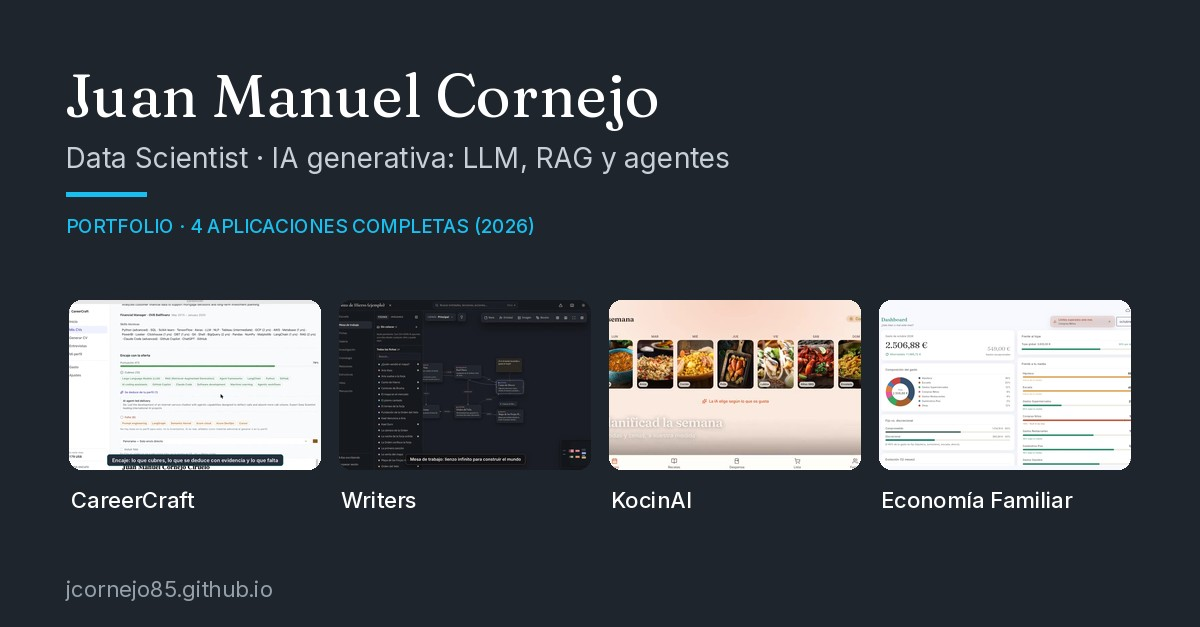
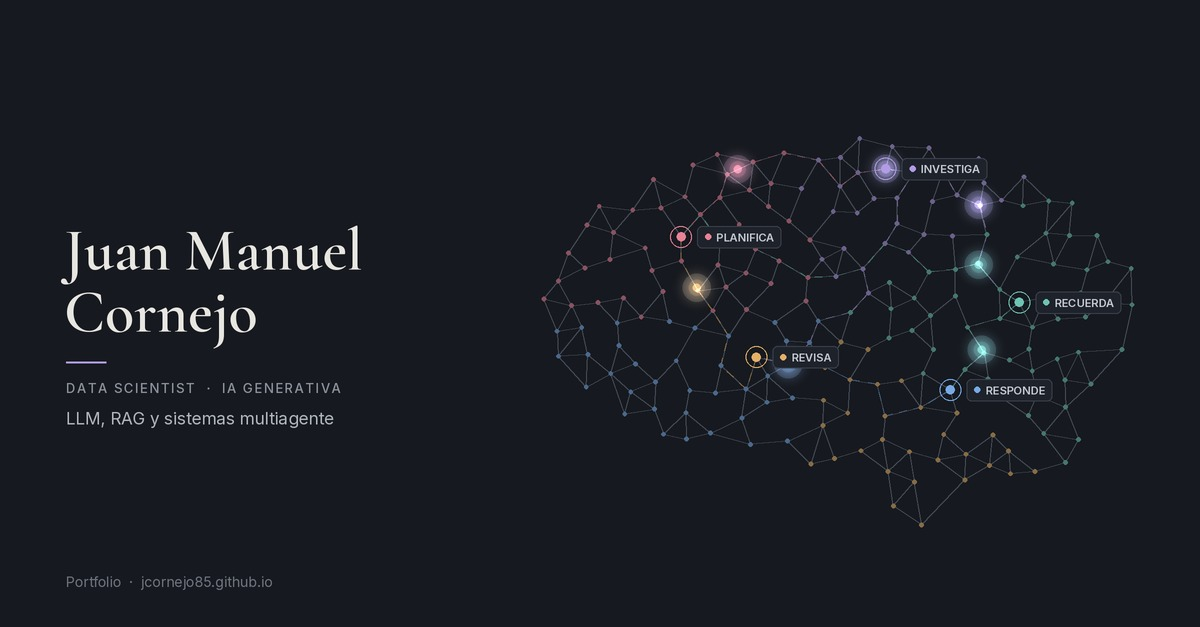
Portada: red de agentes animada y nueva imagen para compartir
- assets/js/neuro-intro.js: canvas con una red en forma de cerebro; cinco agentes se pasan
  mensajes. Respeta prefers-reduced-motion y se pausa fuera de pantalla. Etiquetas ES/EN.
- images/og/portfolio.jpg: versión fija de esa red, estética Writers (LinkedIn la muestra al compartir)

Claude-Session: https://claude.ai/code/session_01QwSUiJUj3XgbcdcxDFEfKt

diff --git a/assets/js/neuro-intro.js b/assets/js/neuro-intro.js
@@ -1,0 +1,147 @@
+/* Portfolio 2026: fondo animado de la portada.
+   Una red de nodos con forma de cerebro en la que cinco agentes se pasan mensajes
+   (pulsos que viajan por las conexiones). Canvas 2D, sin dependencias.
+   - Respeta prefers-reduced-motion (dibuja un fotograma fijo).
+   - Se pausa cuando la portada no está en pantalla o la pestaña está oculta. */
+(function () {
+	var canvas = document.querySelector("#intro .neuro-bg");
+	if (!canvas || !canvas.getContext) return;
+	var ctx = canvas.getContext("2d");
+
+	var BG = "#16191f", LINE = "rgba(110,118,134,0.28)", GRID = "rgba(255,255,255,0.035)";
+	var PAL = ["#e88296", "#b29ce6", "#6ec4b4", "#e4b068", "#78aae6"];
+	var LABELS = {
+		es: ["PLANIFICA", "INVESTIGA", "RECUERDA", "REVISA", "RESPONDE"],
+		en: ["PLANS", "RESEARCHES", "REMEMBERS", "REVIEWS", "ANSWERS"]
+	};
+	var AG = [[-0.55, -0.45], [0.15, -0.70], [0.62, -0.18], [-0.30, 0.25], [0.40, 0.40]];
+	var ROUTES = [[0, 1], [1, 2], [2, 4], [3, 0], [4, 3], [1, 3], [2, 0]];
+	var reduce = window.matchMedia && window.matchMedia("(prefers-reduced-motion: reduce)").matches;
+
+	// generador pseudoaleatorio con semilla: la red es siempre la misma
+	var seed = 7;
+	function rnd() { seed = (seed * 16807) % 2147483647; return (seed - 1) / 2147483646; }
+
+	// forma de cerebro (vista lateral) en coordenadas normalizadas u,v
+	function inside(u, v) {
+		var cereb = u * u + Math.pow((v + 0.08) / 0.82, 2) < 1 && !(u > 0.25 && v > 0.45);
+		var cerebelo = Math.pow((u - 0.48) / 0.34, 2) + Math.pow((v - 0.62) / 0.24, 2) < 1;
+		return cereb || cerebelo;
+	}
+	var nodes = [], tries = 0;
+	while (nodes.length < 200 && tries < 60000) {
+		tries++;
+		var u = rnd() * 2.1 - 1.05, v = rnd() * 2.1 - 1.05;
+		if (!inside(u, v)) continue;
+		var ok = true;
+		for (var i = 0; i < nodes.length; i++) {
+			var du = (nodes[i].u - u) * 300, dv = (nodes[i].v - v) * 200;
+			if (du * du + dv * dv < 22 * 22) { ok = false; break; }
+		}
+		if (ok) nodes.push({ u: u, v: v, c: PAL[Math.floor(((Math.atan2(v, u) + Math.PI) / (2 * Math.PI)) * 5) % 5] });
+	}
+	// conexiones: 3 vecinos más cercanos
+	var edges = [], adj = nodes.map(function () { return []; }), seen = {};
+	nodes.forEach(function (a, i) {
+		var d = nodes.map(function (b, j) {
+			var x = (a.u - b.u) * 300, y = (a.v - b.v) * 200;
+			return [Math.sqrt(x * x + y * y), j];
+		}).sort(function (p, q) { return p[0] - q[0]; });
+		for (var k = 1; k <= 3; k++) {
+			var j = d[k][1], key = Math.min(i, j) + "-" + Math.max(i, j);
+			if (d[k][0] < 85 && !seen[key]) { seen[key] = 1; edges.push([i, j]); adj[i].push(j); adj[j].push(i); }
+		}
+	});
+	function nearest(u, v) {
+		var best = 0, bd = 1e9;
+		nodes.forEach(function (n, i) { var d = Math.pow(n.u - u, 2) + Math.pow(n.v - v, 2); if (d < bd) { bd = d; best = i; } });
+		return best;
+	}
+	var agents = AG.map(function (p, k) { return { i: nearest(p[0], p[1]), c: PAL[k] }; });
+	function bfs(a, b) {
+		var prev = {}; prev[a] = -1; var q = [a];
+		for (var h = 0; h < q.length; h++) {
+			var n = q[h]; if (n === b) break;
+			adj[n].forEach(function (m) { if (!(m in prev)) { prev[m] = n; q.push(m); } });
+		}
+		var out = [b]; while (prev[out[out.length - 1]] !== -1 && prev[out[out.length - 1]] !== undefined) out.push(prev[out[out.length - 1]]);
+		return out.reverse();
+	}
+	var paths = ROUTES.map(function (r) { return bfs(agents[r[0]].i, agents[r[1]].i); });
+
+	var W, H, dpr, cx, cy, sx, sy;
+	function resize() {
+		dpr = Math.min(window.devicePixelRatio || 1, 2);
+		W = canvas.clientWidth; H = canvas.clientHeight;
+		canvas.width = W * dpr; canvas.height = H * dpr;
+		ctx.setTransform(dpr, 0, 0, dpr, 0, 0);
+		var s = Math.min(W / 760, H / 700, 1.1);        // cabe en la parte alta, sin tapar el nombre
+		sx = 300 * s; sy = 200 * s; cx = W / 2; cy = H * 0.33;
+	}
+	function P(i) { return [cx + nodes[i].u * sx, cy + nodes[i].v * sy]; }
+	function along(path, t) {
+		var pts = path.map(P), L = 0, segs = [];
+		for (var i = 0; i < pts.length - 1; i++) { var d = Math.hypot(pts[i + 1][0] - pts[i][0], pts[i + 1][1] - pts[i][1]); segs.push(d); L += d; }
+		var x = L * t;
+		for (i = 0; i < segs.length; i++) {
+			if (x <= segs[i]) { var f = segs[i] ? x / segs[i] : 0; return [pts[i][0] + (pts[i + 1][0] - pts[i][0]) * f, pts[i][1] + (pts[i + 1][1] - pts[i][1]) * f]; }
+			x -= segs[i];
+		}
+		return pts[pts.length - 1];
+	}
+
+	function draw(time) {
+		var ph = (time / 8000) % 1;
+		ctx.fillStyle = BG; ctx.fillRect(0, 0, W, H);
+		ctx.fillStyle = GRID;
+		for (var gx = 0; gx < W; gx += 24) for (var gy = 0; gy < H; gy += 24) ctx.fillRect(gx, gy, 1, 1);
+		ctx.strokeStyle = LINE; ctx.lineWidth = 1; ctx.beginPath();
+		edges.forEach(function (e) { var a = P(e[0]), b = P(e[1]); ctx.moveTo(a[0], a[1]); ctx.lineTo(b[0], b[1]); });
+		ctx.stroke();
+		// rutas entre agentes (discontinuas, como las relaciones de Writers)
+		ctx.setLineDash([4, 5]);
+		paths.forEach(function (p, k) {
+			ctx.strokeStyle = agents[ROUTES[k][0]].c; ctx.globalAlpha = 0.35; ctx.beginPath();
+			p.forEach(function (i, n) { var q = P(i); n ? ctx.lineTo(q[0], q[1]) : ctx.moveTo(q[0], q[1]); });
+			ctx.stroke();
+		});
+		ctx.setLineDash([]); ctx.globalAlpha = 1;
+		nodes.forEach(function (n, i) { var q = P(i); ctx.globalAlpha = 0.5; ctx.fillStyle = n.c; ctx.beginPath(); ctx.arc(q[0], q[1], 2, 0, 7); ctx.fill(); });
+		ctx.globalAlpha = 1;
+		// pulsos (mensajes entre agentes)
+		paths.forEach(function (p, k) {
+			var t = reduce ? (0.35 + k * 0.13) % 1 : (ph * (1 + k % 2) + k * 0.17) % 1, q = along(p, t), c = agents[ROUTES[k][0]].c;
+			var g = ctx.createRadialGradient(q[0], q[1], 0, q[0], q[1], 16);
+			g.addColorStop(0, c); g.addColorStop(1, "rgba(22,25,31,0)");
+			ctx.fillStyle = g; ctx.globalAlpha = 0.9; ctx.beginPath(); ctx.arc(q[0], q[1], 16, 0, 7); ctx.fill();
+			ctx.globalAlpha = 1; ctx.fillStyle = "#fff"; ctx.beginPath(); ctx.arc(q[0], q[1], 2.2, 0, 7); ctx.fill();
+		});
+		// agentes con su ficha
+		var lang = document.documentElement.getAttribute("data-lang") === "en" ? "en" : "es";
+		ctx.font = "600 11px Inter, 'Source Sans Pro', Helvetica, sans-serif"; ctx.textBaseline = "middle";
+		agents.forEach(function (a, k) {
+			var q = P(a.i), pulse = reduce ? 0.6 : 0.5 + 0.5 * Math.sin(2 * Math.PI * (ph * 2 + k / 5)), r = 9 + 3 * pulse;
+			ctx.strokeStyle = a.c; ctx.lineWidth = 1; ctx.beginPath(); ctx.arc(q[0], q[1], r, 0, 7); ctx.stroke();
+			ctx.fillStyle = a.c; ctx.beginPath(); ctx.arc(q[0], q[1], 4.5, 0, 7); ctx.fill();
+			if (W < 520) return;                              // en móvil, sin etiquetas
+			var lab = LABELS[lang][k], tw = ctx.measureText(lab).width, bx = q[0] + 16, by = q[1] - 11;
+			ctx.fillStyle = "#1e222a"; ctx.strokeStyle = "#3a404c";
+			ctx.beginPath(); if (ctx.roundRect) ctx.roundRect(bx, by, tw + 26, 22, 5); else ctx.rect(bx, by, tw + 26, 22); ctx.fill(); ctx.stroke();
+			ctx.fillStyle = a.c; ctx.beginPath(); ctx.arc(bx + 11, by + 11, 3, 0, 7); ctx.fill();
+			ctx.fillStyle = "#c4c8d0"; ctx.fillText(lab, bx + 19, by + 11.5);
+		});
+	}
+
+	var running = false, visible = true;
+	function loop(t) { if (!running) return; draw(t); requestAnimationFrame(loop); }
+	function start() { if (reduce) { draw(0); return; } if (!running && visible && !document.hidden) { running = true; requestAnimationFrame(loop); } }
+	function stop() { running = false; }
+
+	resize(); draw(0);
+	window.addEventListener("resize", function () { resize(); draw(performance.now()); });
+	document.addEventListener("visibilitychange", function () { document.hidden ? stop() : start(); });
+	if ("IntersectionObserver" in window) {
+		new IntersectionObserver(function (en) { visible = en[0].isIntersecting; visible ? start() : stop(); }).observe(canvas);
+	}
+	start();
+})();

diff --git a/assets/css/portfolio.css b/assets/css/portfolio.css
@@ -121,3 +121,12 @@ html[data-lang="en"] [data-l="es"] { display: none !important; }
 /* Ilustración en lugar de vídeo (Economía Familiar) */
 .demo-illustration { margin: 0 0 2.5rem 0; border-radius: 6px; overflow: hidden; box-shadow: 0 10px 30px rgba(0, 0, 0, 0.12); }
 .demo-illustration img { display: block; width: 100%; height: auto; }
+
+/* Portada: red de agentes animada (assets/js/neuro-intro.js) */
+#intro .neuro-bg {
+	position: absolute; top: 0; left: 0; width: 100%; height: 100%;
+	z-index: -1; pointer-events: none; display: block;
+	-webkit-mask-image: linear-gradient(to bottom, #000 72%, transparent 100%);
+	mask-image: linear-gradient(to bottom, #000 72%, transparent 100%);
+}
+#intro h1, #intro p { text-shadow: 0 2px 18px rgba(22, 25, 31, 0.9); }

diff --git a/index.html b/index.html
@@ -31,6 +31,7 @@
 		<div id="wrapper" class="fade-in">
 
 				<div id="intro">
+					<canvas class="neuro-bg" aria-hidden="true"></canvas>
 					<h1>Juan Manuel Cornejo</h1>
 					<p><span data-l="es">Data Scientist especializado en <strong>IA generativa</strong>: sistemas con LLM, RAG y agentes, del prototipo a producción.</span><span data-l="en">Data Scientist specialised in <strong>generative AI</strong>: LLM systems, RAG and agents, from prototype to production.</span></p>
 					<ul class="actions">
@@ -187,5 +188,6 @@
 			<script src="assets/js/breakpoints.min.js"></script>
 			<script src="assets/js/util.js"></script>
 			<script src="assets/js/main.js"></script>
+		<script src="assets/js/neuro-intro.js" defer></script>
 	</body>
 </html>

diff --git a/tools/build.py b/tools/build.py
@@ -250,6 +250,7 @@ def index_page():
 
     body = f"""
 				<div id="intro">
+					<canvas class="neuro-bg" aria-hidden="true"></canvas>
 					<h1>Juan Manuel Cornejo</h1>
 					<p>{L('Data Scientist especializado en <strong>IA generativa</strong>: sistemas con LLM, RAG y agentes, del prototipo a producción.',
                           'Data Scientist specialised in <strong>generative AI</strong>: LLM systems, RAG and agents, from prototype to production.')}</p>
@@ -282,6 +283,7 @@ def index_page():
     out = head("Juan Manuel Cornejo · Portfolio", "Juan Manuel Cornejo · Portfolio",
                "Data Scientist especializado en IA generativa (LLM, RAG y agentes). Cuatro aplicaciones "
                "completas de 2026 con demo en vídeo: CareerCraft, Writers, KocinAI y Economía Familiar.") + body + FOOT
+    out = out.replace("</body>", '\t<script src="assets/js/neuro-intro.js" defer></script>\n\t</body>', 1)
     with open(os.path.join(ROOT, "index.html"), "w", encoding="utf-8") as f:
         f.write(out)
 
